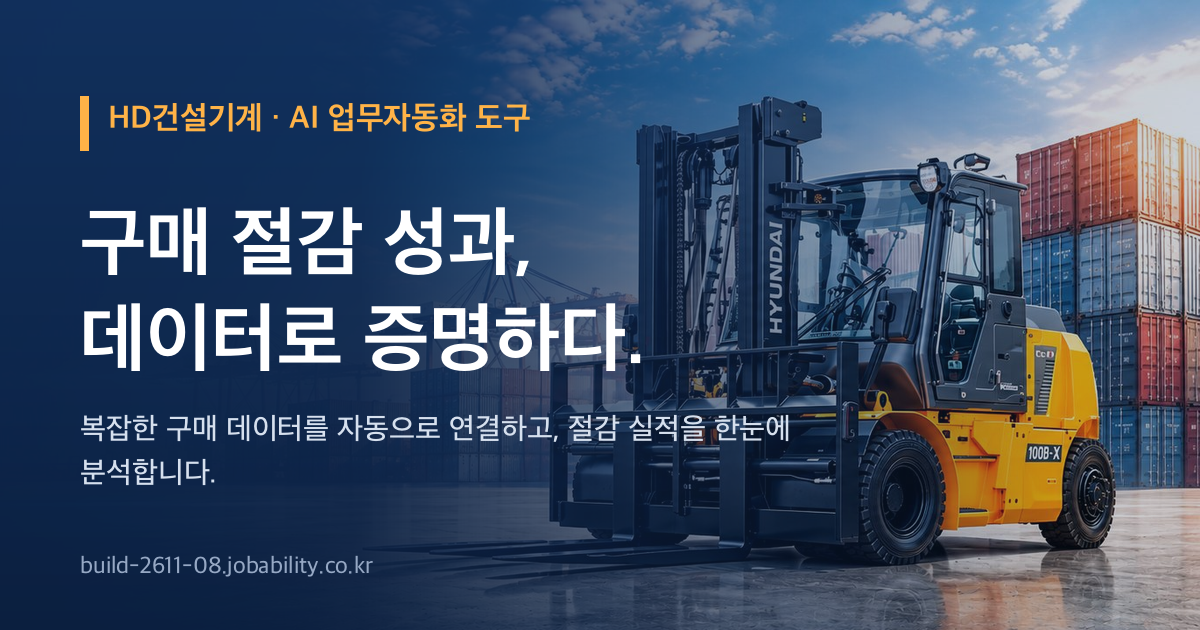
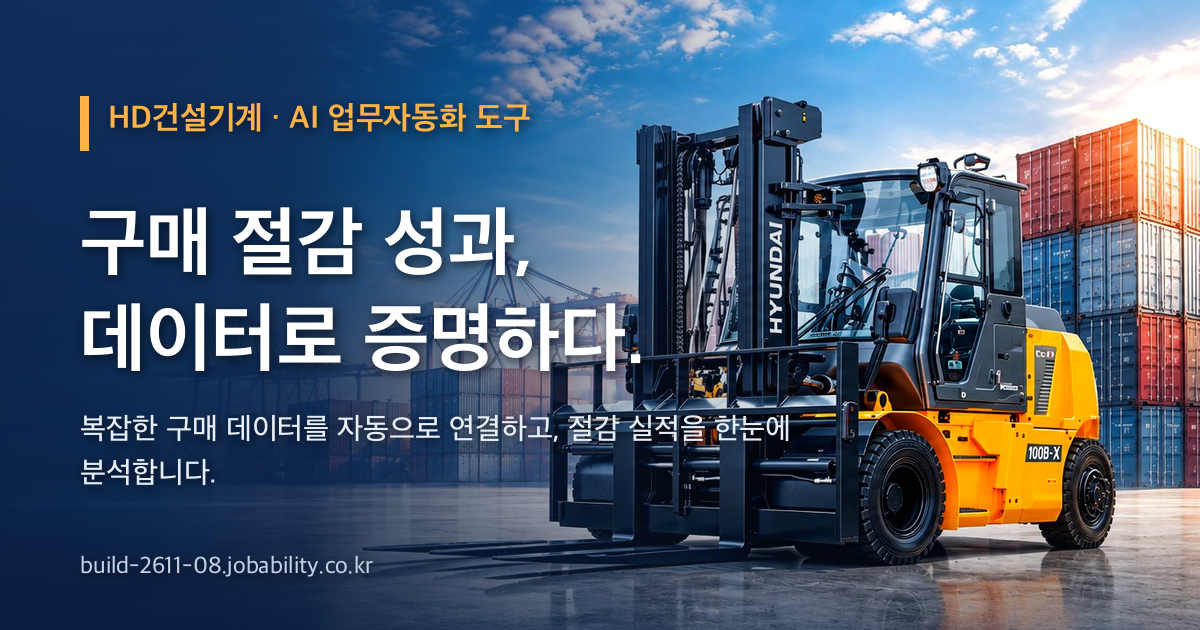
공유 그림 다시(사진 또렷하게) · 판 2026-11-13.12

diff --git a/budget.html b/budget.html
@@ -12,8 +12,8 @@
 <meta property="og:title" content="구매 절감 실적 자동 집계(예산단가 방식) — 구매가 절감 실적 집계">
 <meta property="og:description" content="발주 실적·협력업체 담당자·예산 단가 엑셀 세 가지를 올리면 ZNB 발주만 골라 담당자와 예산단가를 매칭하고 차이금액·Impact·실적을 계산해 보고용 엑셀로 냅니다. 파일은 브라우저 안에서만 처리합니다.">
 <meta property="og:url" content="https://build-2611-08.jobability.co.kr/budget.html">
-<meta property="og:image" content="https://build-2611-08.jobability.co.kr/og-image.png">
-<meta property="og:image:secure_url" content="https://build-2611-08.jobability.co.kr/og-image.png">
+<meta property="og:image" content="https://build-2611-08.jobability.co.kr/og-image.png?v=2">
+<meta property="og:image:secure_url" content="https://build-2611-08.jobability.co.kr/og-image.png?v=2">
 <meta property="og:image:type" content="image/png">
 <meta property="og:image:width" content="1200">
 <meta property="og:image:height" content="630">
@@ -22,7 +22,7 @@
 <meta name="twitter:card" content="summary_large_image">
 <meta name="twitter:title" content="구매 절감 실적 자동 집계(예산단가 방식) — 구매가 절감 실적 집계">
 <meta name="twitter:description" content="발주 실적·협력업체 담당자·예산 단가 엑셀 세 가지를 올리면 ZNB 발주만 골라 담당자와 예산단가를 매칭하고 차이금액·Impact·실적을 계산해 보고용 엑셀로 냅니다. 파일은 브라우저 안에서만 처리합니다.">
-<meta name="twitter:image" content="https://build-2611-08.jobability.co.kr/og-image.png">
+<meta name="twitter:image" content="https://build-2611-08.jobability.co.kr/og-image.png?v=2">
 <!-- /seo-kit -->
 <meta name="description" content="발주 실적·협력업체 담당자·예산 단가 엑셀 세 가지를 올리면 ZNB 발주만 골라 담당자와 예산단가를 매칭하고 차이금액·Impact·실적을 계산해 보고용 엑셀로 냅니다. 파일은 브라우저 안에서만 처리합니다.">
 <link rel="icon" href="favicon.svg" type="image/svg+xml">
@@ -30,9 +30,9 @@
 <link rel="stylesheet" href="css/app.css">
 <!-- auth-kit: 로그인 전에는 도구 화면을 감춘다(js/auth.js 가 판정 뒤 푼다) -->
 <script>document.documentElement.classList.add('auth-lock')</script>
-<link rel="stylesheet" href="css/auth.css?v=2026-11-13.11">
-<link rel="stylesheet" href="css/board.css?v=2026-11-13.11">
-<link rel="stylesheet" href="css/kit-build.css?v=2026-11-13.11">
+<link rel="stylesheet" href="css/auth.css?v=2026-11-13.12">
+<link rel="stylesheet" href="css/board.css?v=2026-11-13.12">
+<link rel="stylesheet" href="css/kit-build.css?v=2026-11-13.12">
 <!-- /auth-kit -->
 </head>
 <body>
@@ -159,11 +159,11 @@
 <script src="js/budget.js"></script>
 <script src="js/budget-app.js"></script>
 <!-- auth-kit: 로그인 · 사용 신청 · 승인 · 게시판(키트 정본 data10-00/kit/auth, 적용 build-2611-00/tools/kit) -->
-<script src="vendor/supabase.js?v=2026-11-13.11"></script>
-<script src="js/auth-config.js?v=2026-11-13.11"></script>
-<script src="js/kit-build.js?v=2026-11-13.11"></script>
-<script src="js/board.js?v=2026-11-13.11"></script>
-<script src="js/auth.js?v=2026-11-13.11"></script>
+<script src="vendor/supabase.js?v=2026-11-13.12"></script>
+<script src="js/auth-config.js?v=2026-11-13.12"></script>
+<script src="js/kit-build.js?v=2026-11-13.12"></script>
+<script src="js/board.js?v=2026-11-13.12"></script>
+<script src="js/auth.js?v=2026-11-13.12"></script>
 <!-- /auth-kit -->
 </body>
 </html>

diff --git a/index.html b/index.html
@@ -12,8 +12,8 @@
 <meta property="og:title" content="HD건설기계 · 구매 절감 성과, 데이터로 증명하다.">
 <meta property="og:description" content="복잡한 구매 데이터를 자동으로 연결하고, 절감 실적을 한눈에 분석합니다.">
 <meta property="og:url" content="https://build-2611-08.jobability.co.kr/">
-<meta property="og:image" content="https://build-2611-08.jobability.co.kr/og-image.png">
-<meta property="og:image:secure_url" content="https://build-2611-08.jobability.co.kr/og-image.png">
+<meta property="og:image" content="https://build-2611-08.jobability.co.kr/og-image.png?v=2">
+<meta property="og:image:secure_url" content="https://build-2611-08.jobability.co.kr/og-image.png?v=2">
 <meta property="og:image:type" content="image/png">
 <meta property="og:image:width" content="1200">
 <meta property="og:image:height" content="630">
@@ -22,7 +22,7 @@
 <meta name="twitter:card" content="summary_large_image">
 <meta name="twitter:title" content="HD건설기계 · 구매 절감 성과, 데이터로 증명하다.">
 <meta name="twitter:description" content="복잡한 구매 데이터를 자동으로 연결하고, 절감 실적을 한눈에 분석합니다.">
-<meta name="twitter:image" content="https://build-2611-08.jobability.co.kr/og-image.png">
+<meta name="twitter:image" content="https://build-2611-08.jobability.co.kr/og-image.png?v=2">
 <!-- /seo-kit -->
 <meta name="description" content="복잡한 구매 데이터를 자동으로 연결하고, 절감 실적을 한눈에 분석합니다.">
 <link rel="icon" href="favicon.svg" type="image/svg+xml">
@@ -30,9 +30,9 @@
 <link rel="stylesheet" href="css/app.css">
 <!-- auth-kit: 로그인 전에는 도구 화면을 감춘다(js/auth.js 가 판정 뒤 푼다) -->
 <script>document.documentElement.classList.add('auth-lock')</script>
-<link rel="stylesheet" href="css/auth.css?v=2026-11-13.11">
-<link rel="stylesheet" href="css/board.css?v=2026-11-13.11">
-<link rel="stylesheet" href="css/kit-build.css?v=2026-11-13.11">
+<link rel="stylesheet" href="css/auth.css?v=2026-11-13.12">
+<link rel="stylesheet" href="css/board.css?v=2026-11-13.12">
+<link rel="stylesheet" href="css/kit-build.css?v=2026-11-13.12">
 <!-- /auth-kit -->
 </head>
 <body>
@@ -173,11 +173,11 @@
 <script src="js/engine.js"></script>
 <script src="js/app.js"></script>
 <!-- auth-kit: 로그인 · 사용 신청 · 승인 · 게시판(키트 정본 data10-00/kit/auth, 적용 build-2611-00/tools/kit) -->
-<script src="vendor/supabase.js?v=2026-11-13.11"></script>
-<script src="js/auth-config.js?v=2026-11-13.11"></script>
-<script src="js/kit-build.js?v=2026-11-13.11"></script>
-<script src="js/board.js?v=2026-11-13.11"></script>
-<script src="js/auth.js?v=2026-11-13.11"></script>
+<script src="vendor/supabase.js?v=2026-11-13.12"></script>
+<script src="js/auth-config.js?v=2026-11-13.12"></script>
+<script src="js/kit-build.js?v=2026-11-13.12"></script>
+<script src="js/board.js?v=2026-11-13.12"></script>
+<script src="js/auth.js?v=2026-11-13.12"></script>
 <!-- /auth-kit -->
 </body>
 </html>

diff --git a/guide.html b/guide.html
@@ -12,8 +12,8 @@
 <meta property="og:title" content="사용법 — 구매가 절감 실적 집계">
 <meta property="og:description" content="월별 발주 실적과 연초 확정 단가표(엑셀)를 올리면 품번별 구매가 절감액을 계산하는 v1.0 흐름에 더해, v1.1 에서는 기획자의 상세 기획안대로 발주 실적·협력업체 담당자·예산 단가 세 파일을 매칭해 ZNB 발주의 차이금액·Impact·실적(인하/인상/동결)을 계산하고 보고용 엑셀(">
 <meta property="og:url" content="https://build-2611-08.jobability.co.kr/guide.html">
-<meta property="og:image" content="https://build-2611-08.jobability.co.kr/og-image.png">
-<meta property="og:image:secure_url" content="https://build-2611-08.jobability.co.kr/og-image.png">
+<meta property="og:image" content="https://build-2611-08.jobability.co.kr/og-image.png?v=2">
+<meta property="og:image:secure_url" content="https://build-2611-08.jobability.co.kr/og-image.png?v=2">
 <meta property="og:image:type" content="image/png">
 <meta property="og:image:width" content="1200">
 <meta property="og:image:height" content="630">
@@ -22,7 +22,7 @@
 <meta name="twitter:card" content="summary_large_image">
 <meta name="twitter:title" content="사용법 — 구매가 절감 실적 집계">
 <meta name="twitter:description" content="월별 발주 실적과 연초 확정 단가표(엑셀)를 올리면 품번별 구매가 절감액을 계산하는 v1.0 흐름에 더해, v1.1 에서는 기획자의 상세 기획안대로 발주 실적·협력업체 담당자·예산 단가 세 파일을 매칭해 ZNB 발주의 차이금액·Impact·실적(인하/인상/동결)을 계산하고 보고용 엑셀(">
-<meta name="twitter:image" content="https://build-2611-08.jobability.co.kr/og-image.png">
+<meta name="twitter:image" content="https://build-2611-08.jobability.co.kr/og-image.png?v=2">
 <!-- /seo-kit -->
 <link rel="icon" href="favicon.svg" type="image/svg+xml">
 <link rel="stylesheet" href="css/style.css">

diff --git a/plan.html b/plan.html
@@ -12,8 +12,8 @@
 <meta property="og:title" content="기획서 — 구매가 절감 실적 집계">
 <meta property="og:description" content="월별 발주 실적과 연초 확정 단가표(엑셀)를 올리면 품번별 구매가 절감액을 계산하는 v1.0 흐름에 더해, v1.1 에서는 기획자의 상세 기획안대로 발주 실적·협력업체 담당자·예산 단가 세 파일을 매칭해 ZNB 발주의 차이금액·Impact·실적(인하/인상/동결)을 계산하고 보고용 엑셀(">
 <meta property="og:url" content="https://build-2611-08.jobability.co.kr/plan.html">
-<meta property="og:image" content="https://build-2611-08.jobability.co.kr/og-image.png">
-<meta property="og:image:secure_url" content="https://build-2611-08.jobability.co.kr/og-image.png">
+<meta property="og:image" content="https://build-2611-08.jobability.co.kr/og-image.png?v=2">
+<meta property="og:image:secure_url" content="https://build-2611-08.jobability.co.kr/og-image.png?v=2">
 <meta property="og:image:type" content="image/png">
 <meta property="og:image:width" content="1200">
 <meta property="og:image:height" content="630">
@@ -22,7 +22,7 @@
 <meta name="twitter:card" content="summary_large_image">
 <meta name="twitter:title" content="기획서 — 구매가 절감 실적 집계">
 <meta name="twitter:description" content="월별 발주 실적과 연초 확정 단가표(엑셀)를 올리면 품번별 구매가 절감액을 계산하는 v1.0 흐름에 더해, v1.1 에서는 기획자의 상세 기획안대로 발주 실적·협력업체 담당자·예산 단가 세 파일을 매칭해 ZNB 발주의 차이금액·Impact·실적(인하/인상/동결)을 계산하고 보고용 엑셀(">
-<meta name="twitter:image" content="https://build-2611-08.jobability.co.kr/og-image.png">
+<meta name="twitter:image" content="https://build-2611-08.jobability.co.kr/og-image.png?v=2">
 <!-- /seo-kit -->
 <link rel="icon" href="favicon.svg" type="image/svg+xml">
 <link rel="stylesheet" href="css/style.css">

diff --git a/report.html b/report.html
@@ -12,8 +12,8 @@
 <meta property="og:title" content="평가보고서 — 구매가 절감 실적 집계">
 <meta property="og:description" content="구매가 절감 실적 집계 점검 · 평가보고서(2026-11-13) — 사이트 점검, 기능과 시험, 인계 준비, 판 이력, 한계.">
 <meta property="og:url" content="https://build-2611-08.jobability.co.kr/report.html">
-<meta property="og:image" content="https://build-2611-08.jobability.co.kr/og-image.png">
-<meta property="og:image:secure_url" content="https://build-2611-08.jobability.co.kr/og-image.png">
+<meta property="og:image" content="https://build-2611-08.jobability.co.kr/og-image.png?v=2">
+<meta property="og:image:secure_url" content="https://build-2611-08.jobability.co.kr/og-image.png?v=2">
 <meta property="og:image:type" content="image/png">
 <meta property="og:image:width" content="1200">
 <meta property="og:image:height" content="630">
@@ -22,7 +22,7 @@
 <meta name="twitter:card" content="summary_large_image">
 <meta name="twitter:title" content="평가보고서 — 구매가 절감 실적 집계">
 <meta name="twitter:description" content="구매가 절감 실적 집계 점검 · 평가보고서(2026-11-13) — 사이트 점검, 기능과 시험, 인계 준비, 판 이력, 한계.">
-<meta name="twitter:image" content="https://build-2611-08.jobability.co.kr/og-image.png">
+<meta name="twitter:image" content="https://build-2611-08.jobability.co.kr/og-image.png?v=2">
 <!-- /seo-kit -->
 <meta name="description" content="구매가 절감 실적 집계 점검 · 평가보고서(2026-11-13) — 사이트 점검, 기능과 시험, 인계 준비, 판 이력, 한계.">
 <link rel="icon" href="favicon.svg" type="image/svg+xml">
